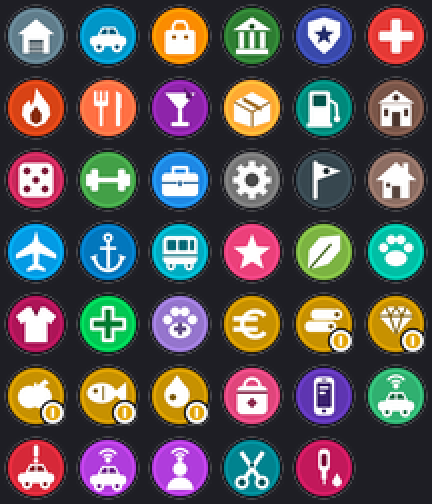
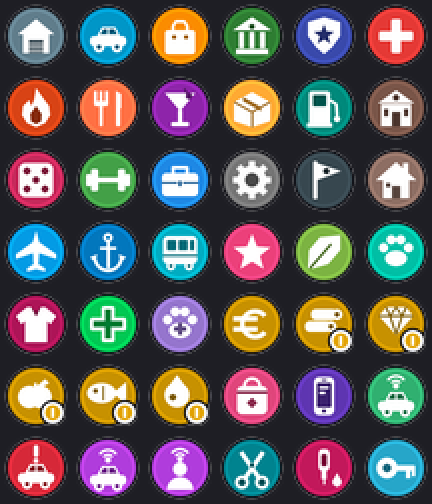
Carte : icone Bien loue (cle) pour les reperes Ma location

Changed region(s): [[0.8426, 0.8631, 0.9931, 1.0]]

diff --git a/tools/gen_map_icons.py b/tools/gen_map_icons.py
@@ -191,6 +191,11 @@ def tatoueur(c):
     c.rect(14.8, 17.5, 17.2, 21.5); c.line([(16, 21.5), (16, 24.2)], 1)
     c.poly([(22.5, 18.5), (24.8, 22.6), (24.6, 24.2), (22.5, 25.6), (20.4, 24.2), (20.2, 22.6)])
 
+# Bien loué (repère « Ma location », mod Portes) : clé
+def location(c):
+    c.circ(11.5, 16, 5.2); c.circ(11.5, 16, 2.1, c.cut)
+    c.rect(15.5, 14.6, 25.5, 17.4, r=0.8); c.rect(21, 17, 23, 21); c.rect(24, 17, 25.5, 20)
+
 # id -> (couleur, dessin)
 ICONS = {
     "garage": ((96, 125, 139), garage), "concession": ((0, 150, 199), concession), "boutique": ((251, 140, 0), boutique),
@@ -210,6 +215,7 @@ ICONS = {
     "vehicule_gps": ((48, 176, 112), vehicule_gps), "vehicule_vole": ((214, 40, 56), vehicule_vole),
     "balise": ((176, 60, 220), balise), "balise_joueur": ((176, 60, 220), balise_joueur),
     "coiffeur": ((0, 131, 143), coiffeur), "tatoueur": ((194, 24, 91), tatoueur),
+    "location": ((38, 166, 201), location),
 }
 
 def make(col, fn):

diff --git a/src/main/java/fr/minenorth/map/waypoint/MapIcons.java b/src/main/java/fr/minenorth/map/waypoint/MapIcons.java
@@ -38,6 +38,7 @@ public final class MapIcons {
         add("atelier", "Atelier", 0x757575);
         add("gang", "Gang / territoire", 0x37474F);
         add("maison", "Maison", 0x8D6E63);
+        add("location", "Bien loué", 0x26A6C9);   // repère « Ma location » (mod Portes) ; « maison » pour un bien acheté
         add("aeroport", "Aéroport", 0x039BE5);
         add("port", "Port", 0x0277BD);
         add("transport", "Transport", 0x00ACC1);

diff --git a/README.md b/README.md
@@ -66,7 +66,7 @@ Les mêmes droits que les commandes sont revérifiés côté serveur ; les comma
 Points stockés dans `world/data/minenorth_map_waypoints.dat`, synchronisés en direct à tous les joueurs.
 
 ## Icônes de catégorie (comme sur la carte d'Altis Life)
-Les points ont une **icône** (pastille ronde colorée + pictogramme) au lieu du simple carré : garage, concession, boutique, banque/ATM, police, hôpital, pompiers/secours, restaurant, bar/club, livraison, station-service, mairie, casino, salle de sport, entreprise, atelier, gang/territoire, maison, aéroport, port, transport, loisir, récolte, animalerie, vêtements, pharmacie, vétérinaire ; suivi de véhicules (mod Vol) : véhicule suivi GPS, véhicule volé, balise sur véhicule, balise sur personne ; salons : coiffeur / barbier (`coiffeur`, mots « coiffe, coiffure, barbier, barber, salon ») et tatoueur (`tatoueur`, mots « tatou, tattoo, piercing »). Les repères poussés par le serveur qui se déplacent glissent en douceur (~1 s) d'une position à la suivante.
+Les points ont une **icône** (pastille ronde colorée + pictogramme) au lieu du simple carré : garage, concession, boutique, banque/ATM, police, hôpital, pompiers/secours, restaurant, bar/club, livraison, station-service, mairie, casino, salle de sport, entreprise, atelier, gang/territoire, maison, aéroport, port, transport, loisir, récolte, animalerie, vêtements, pharmacie, vétérinaire ; suivi de véhicules (mod Vol) : véhicule suivi GPS, véhicule volé, balise sur véhicule, balise sur personne ; salons : coiffeur / barbier (`coiffeur`, mots « coiffe, coiffure, barbier, barber, salon ») et tatoueur (`tatoueur`, mots « tatou, tattoo, piercing ») ; biens : `maison` (bien acheté) et `location` (clé, « Bien loué »), repères « Mon bien » / « Ma location » poussés par le mod Portes. Les repères poussés par le serveur qui se déplacent glissent en douceur (~1 s) d'une position à la suivante.
 - **Acheteurs de ressources** : une même pastille **dorée** avec une petite pièce en bas à droite ; le pictogramme dit ce qui est racheté : bois (`rachat_bois`), minerais (`rachat_minerai`), récoltes/fruits (`rachat_recolte`), poisson (`rachat_poisson`), pétrole (`rachat_petrole`), ou `rachat` (symbole €) pour un acheteur général. Devinée d'après le nom : un nom avec « acheteur / rachat / revente / reprise / recyclage » donne une icône d'acheteur, précisée par la ressource (« Rachat de bois » → bois, « Acheteur de minerais » → minerais). Une seule case « Acheteurs » dans les filtres pour toute la famille.
 - **Choix** : dans l'écran d'édition d'un point (mode Édition de la carte pour les OP, ou clic droit pour un point perso), grille d'icônes cliquable ; la 1re case (∅) = automatique.
 - **Automatique** : sans choix explicite, l'icône vient du type du point (commerce → boutique, secours → pompiers, logement → maison…) et, pour les types entreprise / commerce / loisir, du nom (« Pizzeria Chez Marco » → restaurant). Le type « autre » et les anciens points sans type gardent leur petit carré coloré.
